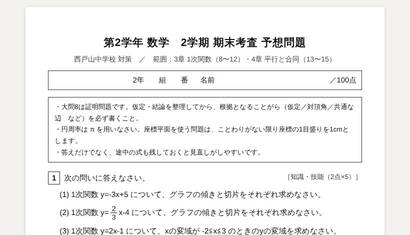
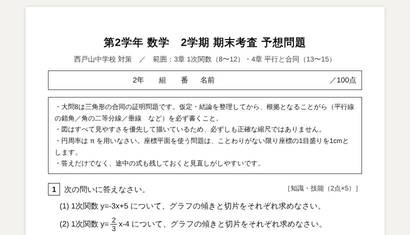
西戸山中2年 2学期期末 数学予想問題を差し替え（図の改善・大問8を合同証明2問に）
Claude-Session: https://claude.ai/code/session_0195v6oVe8CzGfCEmgC7YF48

Changed region(s): [[0.1171, 0.417, 0.9073, 1.0]]

diff --git a/g2-math-nishitoyama-kimatsu.html b/g2-math-nishitoyama-kimatsu.html
@@ -55,7 +55,8 @@
   <div class="namebox"><span>2年　　組　　番</span><span>名前　　　　　　　　　　　　　　</span><span>／100点</span></div>
 
   <div class="rules">
-    ・大問8は証明問題です。仮定・結論を整理してから、根拠となることがら（仮定／対頂角／共通な辺　など）を必ず書くこと。<br>
+    ・大問8は三角形の合同の証明問題です。仮定・結論を整理してから、根拠となることがら（平行線の錯角／角の二等分線／垂線　など）を必ず書くこと。<br>
+    ・図はすべて見やすさを優先して描いているため、必ずしも正確な縮尺ではありません。<br>
     ・円周率は π を用いなさい。座標平面を使う問題は、ことわりがない限り座標の1目盛りを1cmとします。<br>
     ・答えだけでなく、途中の式も残しておくと見直しがしやすいです。
   </div>
@@ -135,14 +136,22 @@
       <li>(1) 正九角形の1つの内角の大きさを求めなさい。</li>
       <li>(2) 正九角形の1つの外角の大きさを求めなさい。</li>
       <li>(3) 内角の和が1980°になる多角形は何角形か求めなさい。</li>
-      <li>(4) 右の図で、∠xの大きさを求めなさい。
+      <li>(4) 下の図の四角形ABCDで、∠xの大きさを求めなさい。
         <div class="figwrap">
-          <svg viewBox="0 0 260 180" width="220" height="152">
-            <polygon points="40,140 90,40 190,30 220,130" fill="none" stroke="#000" stroke-width="1.3"/>
-            <text x="18" y="150" font-size="11">x</text>
-            <text x="95" y="35" font-size="11">95°</text>
-            <text x="195" y="22" font-size="11">110°</text>
-            <text x="218" y="148" font-size="11">80°</text>
+          <svg viewBox="0 0 300 220" width="260" height="191">
+            <polygon points="70,180 55,60 180,25 255,130" fill="none" stroke="#000" stroke-width="1.4"/>
+            <circle cx="70" cy="180" r="2.8" fill="#000"/>
+            <circle cx="55" cy="60" r="2.8" fill="#000"/>
+            <circle cx="180" cy="25" r="2.8" fill="#000"/>
+            <circle cx="255" cy="130" r="2.8" fill="#000"/>
+            <text x="48" y="202" font-size="12" fill="#000" stroke="#fff" stroke-width="4" paint-order="stroke">A</text>
+            <text x="30" y="58" font-size="12" fill="#000" stroke="#fff" stroke-width="4" paint-order="stroke">B</text>
+            <text x="178" y="14" font-size="12" fill="#000" stroke="#fff" stroke-width="4" paint-order="stroke">C</text>
+            <text x="262" y="122" font-size="12" fill="#000" stroke="#fff" stroke-width="4" paint-order="stroke">D</text>
+            <text x="96" y="162" font-size="13" font-weight="bold" fill="#000" stroke="#fff" stroke-width="4" paint-order="stroke">x</text>
+            <text x="78" y="82" font-size="12" fill="#000" stroke="#fff" stroke-width="4" paint-order="stroke">95°</text>
+            <text x="168" y="58" font-size="12" fill="#000" stroke="#fff" stroke-width="4" paint-order="stroke">110°</text>
+            <text x="210" y="122" font-size="12" fill="#000" stroke="#fff" stroke-width="4" paint-order="stroke">80°</text>
           </svg>
         </div>
       </li>
@@ -155,63 +164,81 @@
     <ol class="items">
       <li>(1) 下の図で、ℓ//mのとき、∠xの大きさを求めなさい。
         <div class="figwrap">
-          <svg viewBox="0 0 260 220" width="220" height="186">
-            <line x1="10" y1="40" x2="250" y2="40" stroke="#000"/><text x="2" y="35" font-size="10">ℓ</text>
-            <line x1="10" y1="180" x2="250" y2="180" stroke="#000"/><text x="2" y="195" font-size="10">m</text>
-            <line x1="90" y1="40" x2="150" y2="110" stroke="#000"/>
-            <line x1="150" y1="110" x2="110" y2="180" stroke="#000"/>
-            <text x="95" y="56" font-size="10">38°</text>
-            <text x="158" y="107" font-size="11">x</text>
-            <text x="112" y="172" font-size="10">52°</text>
+          <svg viewBox="0 0 280 260" width="240" height="223">
+            <line x1="10" y1="30" x2="270" y2="30" stroke="#000" stroke-width="1.3"/><text x="2" y="25" font-size="12" fill="#000" stroke="#fff" stroke-width="4" paint-order="stroke">ℓ</text>
+            <line x1="10" y1="230" x2="270" y2="230" stroke="#000" stroke-width="1.3"/><text x="2" y="248" font-size="12" fill="#000" stroke="#fff" stroke-width="4" paint-order="stroke">m</text>
+            <line x1="90" y1="30" x2="190" y2="130" stroke="#000" stroke-width="1.3"/>
+            <line x1="190" y1="130" x2="130" y2="230" stroke="#000" stroke-width="1.3"/>
+            <circle cx="90" cy="30" r="2.8" fill="#000"/>
+            <circle cx="190" cy="130" r="2.8" fill="#000"/>
+            <circle cx="130" cy="230" r="2.8" fill="#000"/>
+            <text x="100" y="58" font-size="13" fill="#000" stroke="#fff" stroke-width="4" paint-order="stroke">38°</text>
+            <text x="198" y="128" font-size="14" font-weight="bold" fill="#000" stroke="#fff" stroke-width="4" paint-order="stroke">x</text>
+            <text x="138" y="208" font-size="13" fill="#000" stroke="#fff" stroke-width="4" paint-order="stroke">52°</text>
           </svg>
         </div>
       </li>
       <li>(2) 下の図で、ℓ//mのとき、∠xの大きさを求めなさい。
         <div class="figwrap">
-          <svg viewBox="0 0 260 220" width="220" height="186">
-            <line x1="10" y1="40" x2="250" y2="40" stroke="#000"/><text x="2" y="35" font-size="10">ℓ</text>
-            <line x1="10" y1="180" x2="250" y2="180" stroke="#000"/><text x="2" y="195" font-size="10">m</text>
-            <line x1="170" y1="40" x2="110" y2="110" stroke="#000"/>
-            <line x1="110" y1="110" x2="150" y2="180" stroke="#000"/>
-            <text x="138" y="56" font-size="10">48°</text>
-            <text x="78" y="107" font-size="11">x</text>
-            <text x="155" y="172" font-size="10">37°</text>
+          <svg viewBox="0 0 280 260" width="240" height="223">
+            <line x1="10" y1="30" x2="270" y2="30" stroke="#000" stroke-width="1.3"/><text x="2" y="25" font-size="12" fill="#000" stroke="#fff" stroke-width="4" paint-order="stroke">ℓ</text>
+            <line x1="10" y1="230" x2="270" y2="230" stroke="#000" stroke-width="1.3"/><text x="2" y="248" font-size="12" fill="#000" stroke="#fff" stroke-width="4" paint-order="stroke">m</text>
+            <line x1="190" y1="30" x2="100" y2="130" stroke="#000" stroke-width="1.3"/>
+            <line x1="100" y1="130" x2="160" y2="230" stroke="#000" stroke-width="1.3"/>
+            <circle cx="190" cy="30" r="2.8" fill="#000"/>
+            <circle cx="100" cy="130" r="2.8" fill="#000"/>
+            <circle cx="160" cy="230" r="2.8" fill="#000"/>
+            <text x="150" y="58" font-size="13" fill="#000" stroke="#fff" stroke-width="4" paint-order="stroke">48°</text>
+            <text x="58" y="128" font-size="14" font-weight="bold" fill="#000" stroke="#fff" stroke-width="4" paint-order="stroke">x</text>
+            <text x="166" y="208" font-size="13" fill="#000" stroke="#fff" stroke-width="4" paint-order="stroke">37°</text>
           </svg>
         </div>
       </li>
       <li>(3) 下の図で、ℓ//mのとき、∠xの大きさを求めなさい。
         <div class="figwrap">
-          <svg viewBox="0 0 260 220" width="220" height="186">
-            <line x1="10" y1="40" x2="250" y2="40" stroke="#000"/><text x="2" y="35" font-size="10">ℓ</text>
-            <line x1="10" y1="180" x2="250" y2="180" stroke="#000"/><text x="2" y="195" font-size="10">m</text>
-            <line x1="60" y1="40" x2="140" y2="110" stroke="#000"/>
-            <line x1="140" y1="110" x2="190" y2="180" stroke="#000"/>
-            <text x="63" y="56" font-size="10">65°</text>
-            <text x="148" y="107" font-size="11">x</text>
-            <text x="190" y="172" font-size="10">20°</text>
+          <svg viewBox="0 0 280 260" width="240" height="223">
+            <line x1="10" y1="30" x2="270" y2="30" stroke="#000" stroke-width="1.3"/><text x="2" y="25" font-size="12" fill="#000" stroke="#fff" stroke-width="4" paint-order="stroke">ℓ</text>
+            <line x1="10" y1="230" x2="270" y2="230" stroke="#000" stroke-width="1.3"/><text x="2" y="248" font-size="12" fill="#000" stroke="#fff" stroke-width="4" paint-order="stroke">m</text>
+            <line x1="70" y1="30" x2="170" y2="130" stroke="#000" stroke-width="1.3"/>
+            <line x1="170" y1="130" x2="220" y2="230" stroke="#000" stroke-width="1.3"/>
+            <circle cx="70" cy="30" r="2.8" fill="#000"/>
+            <circle cx="170" cy="130" r="2.8" fill="#000"/>
+            <circle cx="220" cy="230" r="2.8" fill="#000"/>
+            <text x="80" y="58" font-size="13" fill="#000" stroke="#fff" stroke-width="4" paint-order="stroke">65°</text>
+            <text x="178" y="128" font-size="14" font-weight="bold" fill="#000" stroke="#fff" stroke-width="4" paint-order="stroke">x</text>
+            <text x="222" y="208" font-size="13" fill="#000" stroke="#fff" stroke-width="4" paint-order="stroke">20°</text>
           </svg>
         </div>
       </li>
       <li>(4) 下の図で、∠xの大きさを求めなさい。
         <div class="figwrap">
-          <svg viewBox="0 0 260 200" width="220" height="169">
-            <polygon points="130,20 40,150 130,110 220,150" fill="none" stroke="#000" stroke-width="1.3"/>
-            <text x="123" y="36" font-size="10">65°</text>
-            <text x="38" y="145" font-size="10">35°</text>
-            <text x="196" y="145" font-size="10">25°</text>
-            <text x="120" y="105" font-size="11">x</text>
+          <svg viewBox="0 0 280 220" width="240" height="189">
+            <polygon points="150,25 45,170 150,125 255,170" fill="none" stroke="#000" stroke-width="1.4"/>
+            <circle cx="150" cy="25" r="2.8" fill="#000"/>
+            <circle cx="45" cy="170" r="2.8" fill="#000"/>
+            <circle cx="150" cy="125" r="2.8" fill="#000"/>
+            <circle cx="255" cy="170" r="2.8" fill="#000"/>
+            <text x="156" y="42" font-size="13" fill="#000" stroke="#fff" stroke-width="4" paint-order="stroke">65°</text>
+            <text x="35" y="190" font-size="13" fill="#000" stroke="#fff" stroke-width="4" paint-order="stroke">35°</text>
+            <text x="222" y="190" font-size="13" fill="#000" stroke="#fff" stroke-width="4" paint-order="stroke">25°</text>
+            <text x="156" y="120" font-size="14" font-weight="bold" fill="#000" stroke="#fff" stroke-width="4" paint-order="stroke">x</text>
           </svg>
         </div>
       </li>
       <li>(5) 下の図は星形の図形である。印のついた5つの角の大きさの和を求めなさい。
         <div class="figwrap">
-          <svg viewBox="0 0 260 200" width="220" height="169">
-            <polygon points="130,15 74,187 220,81 40,81 186,187" fill="none" stroke="#000" stroke-width="1.3"/>
-            <circle cx="130" cy="15" r="2.5" fill="#000"/>
-            <circle cx="74" cy="187" r="2.5" fill="#000"/>
-            <circle cx="220" cy="81" r="2.5" fill="#000"/>
-            <circle cx="40" cy="81" r="2.5" fill="#000"/>
-            <circle cx="186" cy="187" r="2.5" fill="#000"/>
+          <svg viewBox="0 0 280 220" width="240" height="189">
+            <polygon points="140,15 80,200 236,89 44,89 200,200" fill="none" stroke="#000" stroke-width="1.4"/>
+            <circle cx="140" cy="15" r="3" fill="#000"/>
+            <circle cx="80" cy="200" r="3" fill="#000"/>
+            <circle cx="236" cy="89" r="3" fill="#000"/>
+            <circle cx="44" cy="89" r="3" fill="#000"/>
+            <circle cx="200" cy="200" r="3" fill="#000"/>
+            <text x="144" y="10" font-size="12" fill="#000" stroke="#fff" stroke-width="4" paint-order="stroke">A</text>
+            <text x="70" y="216" font-size="12" fill="#000" stroke="#fff" stroke-width="4" paint-order="stroke">B</text>
+            <text x="240" y="84" font-size="12" fill="#000" stroke="#fff" stroke-width="4" paint-order="stroke">C</text>
+            <text x="18" y="84" font-size="12" fill="#000" stroke="#fff" stroke-width="4" paint-order="stroke">D</text>
+            <text x="204" y="216" font-size="12" fill="#000" stroke="#fff" stroke-width="4" paint-order="stroke">E</text>
           </svg>
         </div>
       </li>
@@ -252,30 +279,54 @@
 
   <!-- 8 -->
   <div class="q pb">
-    <div class="qh"><span class="num">8</span><span class="inst">次の問いに証明しなさい。仮定・結論を明らかにしてから書くこと。<span class="pts">［思・判・表（8点＋9点）］</span></span></div>
+    <div class="qh"><span class="num">8</span><span class="inst">次の2つの三角形の合同を証明しなさい。仮定・結論を明らかにしてから書くこと。<span class="pts">［思・判・表（8点＋9点）］</span></span></div>
     <ol class="items">
-      <li>(1) 下の図のように、点Oは線分ACとBDの交点である。AO=CO、BO=DOならば、AB=CDであることを証明しなさい。
+      <li>(1) 下の図のように、四角形ABCDで、AB∥DC、AB=DCである。対角線ACとBDの交点をEとするとき、△ABE≡△CDEであることを証明しなさい。
         <div class="figwrap">
-          <svg viewBox="0 0 260 200" width="220" height="169">
-            <line x1="50" y1="40" x2="210" y2="160" stroke="#000"/>
-            <line x1="40" y1="160" x2="220" y2="40" stroke="#000"/>
-            <text x="34" y="36" font-size="11">A</text>
-            <text x="216" y="176" font-size="11">C</text>
-            <text x="18" y="176" font-size="11">B</text>
-            <text x="224" y="36" font-size="11">D</text>
-            <text x="135" y="105" font-size="11">O</text>
+          <svg viewBox="0 0 280 220" width="240" height="188">
+            <line x1="50" y1="35" x2="230" y2="35" stroke="#000" stroke-width="1.3"/>
+            <line x1="230" y1="35" x2="190" y2="175" stroke="#000" stroke-width="1.3"/>
+            <line x1="190" y1="175" x2="90" y2="175" stroke="#000" stroke-width="1.3"/>
+            <line x1="90" y1="175" x2="50" y2="35" stroke="#000" stroke-width="1.3"/>
+            <line x1="50" y1="35" x2="190" y2="175" stroke="#000" stroke-width="1.1"/>
+            <line x1="230" y1="35" x2="90" y2="175" stroke="#000" stroke-width="1.1"/>
+            <circle cx="50" cy="35" r="2.8" fill="#000"/>
+            <circle cx="230" cy="35" r="2.8" fill="#000"/>
+            <circle cx="190" cy="175" r="2.8" fill="#000"/>
+            <circle cx="90" cy="175" r="2.8" fill="#000"/>
+            <circle cx="140" cy="125" r="2.8" fill="#000"/>
+            <text x="34" y="26" font-size="12" fill="#000" stroke="#fff" stroke-width="4" paint-order="stroke">A</text>
+            <text x="234" y="26" font-size="12" fill="#000" stroke="#fff" stroke-width="4" paint-order="stroke">B</text>
+            <text x="194" y="193" font-size="12" fill="#000" stroke="#fff" stroke-width="4" paint-order="stroke">C</text>
+            <text x="66" y="193" font-size="12" fill="#000" stroke="#fff" stroke-width="4" paint-order="stroke">D</text>
+            <text x="148" y="118" font-size="12" fill="#000" stroke="#fff" stroke-width="4" paint-order="stroke">E</text>
+            <text x="128" y="28" font-size="12" fill="#000" stroke="#fff" stroke-width="4" paint-order="stroke">▷</text>
+            <text x="128" y="190" font-size="12" fill="#000" stroke="#fff" stroke-width="4" paint-order="stroke">▷</text>
           </svg>
         </div>
       </li>
-      <li>(2) 下の図のように、四角形ABCDにおいて、AB=AD、CB=CDならば、∠ABC=∠ADCであることを証明しなさい。
+      <li>(2) 下の図のように、∠AOBの二等分線上に点Pがあり、点Pから半直線OA、半直線OBにそれぞれ垂線PC、PDを下ろした。このとき、△OCP≡△ODPであることを証明しなさい。
         <div class="figwrap">
-          <svg viewBox="0 0 220 220" width="190" height="190">
-            <polygon points="110,20 190,110 110,200 30,110" fill="none" stroke="#000" stroke-width="1.3"/>
-            <line x1="110" y1="20" x2="110" y2="200" stroke="#000" stroke-dasharray="4,3"/>
-            <text x="100" y="14" font-size="11">A</text>
-            <text x="196" y="115" font-size="11">B</text>
-            <text x="100" y="217" font-size="11">C</text>
-            <text x="8" y="115" font-size="11">D</text>
+          <svg viewBox="0 0 300 220" width="260" height="191">
+            <line x1="50" y1="190" x2="270" y2="190" stroke="#000" stroke-width="1.3"/>
+            <line x1="50" y1="190" x2="125" y2="60" stroke="#000" stroke-width="1.3"/>
+            <line x1="50" y1="190" x2="171" y2="120" stroke="#000" stroke-width="1.2" stroke-dasharray="4,3"/>
+            <line x1="171" y1="120" x2="171" y2="190" stroke="#000" stroke-width="1.1"/>
+            <line x1="171" y1="120" x2="111" y2="85" stroke="#000" stroke-width="1.1"/>
+            <polyline points="163,190 163,182 171,182" fill="none" stroke="#000" stroke-width="1"/>
+            <polyline points="107,91.9 113.9,95.9 117.9,89" fill="none" stroke="#000" stroke-width="1"/>
+            <line x1="81.5" y1="190" x2="68.15" y2="179.5" stroke="#000" stroke-width="1.1"/>
+            <line x1="68.15" y1="179.5" x2="61.25" y2="170.5" stroke="#000" stroke-width="1.1"/>
+            <circle cx="50" cy="190" r="2.8" fill="#000"/>
+            <circle cx="171" cy="120" r="2.8" fill="#000"/>
+            <circle cx="171" cy="190" r="2.8" fill="#000"/>
+            <circle cx="111" cy="85" r="2.8" fill="#000"/>
+            <text x="34" y="203" font-size="12" fill="#000" stroke="#fff" stroke-width="4" paint-order="stroke">O</text>
+            <text x="272" y="196" font-size="12" fill="#000" stroke="#fff" stroke-width="4" paint-order="stroke">A</text>
+            <text x="115" y="52" font-size="12" fill="#000" stroke="#fff" stroke-width="4" paint-order="stroke">B</text>
+            <text x="176" y="110" font-size="12" fill="#000" stroke="#fff" stroke-width="4" paint-order="stroke">P</text>
+            <text x="176" y="200" font-size="12" fill="#000" stroke="#fff" stroke-width="4" paint-order="stroke">C</text>
+            <text x="88" y="80" font-size="12" fill="#000" stroke="#fff" stroke-width="4" paint-order="stroke">D</text>
           </svg>
         </div>
       </li>
@@ -293,7 +344,7 @@
     <b>■ 出題範囲メモ（作問時の判断）</b>
     ・範囲は第3章「8 1次関数とグラフ」〜「12 直線と図形」と、第4章「13 多角形の角，平行線と角」〜「15 合同な図形」。<br>
     ・1次関数は基礎（傾き・切片・変域・式を求める）を大問1に少しだけ入れ、中心は大問2〜4の「利用」（ダイヤグラム・2直線の交点・直線と図形）にしました。<br>
-    ・平行と合同は角度計算（多角形の角・平行線と角・三角形の内角外角の利用）を厚めに、証明は2問（合同条件のみで完結する基本パターン）にしています。
+    ・平行と合同は角度計算（多角形の角・平行線と角・三角形の内角外角の利用）を厚めに、証明は三角形の合同の証明2問（平行線の錯角を使うASA型、角の二等分線＋垂線を使う直角三角形の合同型）にしています。
   </div>
 
   <h2>1（2点×5）</h2>
@@ -360,34 +411,33 @@
   <h2>8（8点＋9点）</h2>
   <div class="a">
     (1)［証明］<br>
-    仮定：AO=CO、BO=DO　　結論：AB=CD<br>
-    △AOBと△CODにおいて、<br>
-    仮定から、　AO=CO　…①<br>
-    仮定から、　BO=DO　…②<br>
-    対頂角は等しいから、　∠AOB=∠COD　…③<br>
-    ①、②、③より、2組の辺とその間の角がそれぞれ等しいから、<br>
-    <span class="k">△AOB≡△COD</span><br>
-    合同な図形の対応する辺は等しいから、<span class="k">AB=CD</span>
+    仮定：AB∥DC、AB=DC　　結論：△ABE≡△CDE<br>
+    △ABEと△CDEにおいて、<br>
+    仮定から、　AB=DC　…①<br>
+    AB∥DCより、平行線の錯角は等しいから、　∠ABE=∠CDE　…②<br>
+    AB∥DCより、平行線の錯角は等しいから、　∠BAE=∠DCE　…③<br>
+    ①、②、③より、1組の辺とその両端の角がそれぞれ等しいから、<br>
+    <span class="k">△ABE≡△CDE</span>
   </div>
   <div class="a">
     (2)［証明］<br>
-    仮定：AB=AD、CB=CD　　結論：∠ABC=∠ADC<br>
-    △ABCと△ADCにおいて、<br>
-    仮定から、　AB=AD　…①<br>
-    仮定から、　CB=CD　…②<br>
-    共通な辺だから、　AC=AC　…③<br>
-    ①、②、③より、3組の辺がそれぞれ等しいから、<br>
-    <span class="k">△ABC≡△ADC</span><br>
-    合同な図形の対応する角は等しいから、<span class="k">∠ABC=∠ADC</span>
+    仮定：OPは∠AOBの二等分線、PC⊥OA、PD⊥OB　　結論：△OCP≡△ODP<br>
+    △OCPと△ODPにおいて、<br>
+    共通な辺だから、　OP=OP　…①<br>
+    仮定（OPが∠AOBの二等分線）から、　∠COP=∠DOP　…②<br>
+    仮定（垂線）から、　∠OCP=∠ODP=90°　…③<br>
+    ③より、△OCP、△ODPはどちらも直角三角形であり、①、②から、直角三角形の斜辺と1つの鋭角がそれぞれ等しいから、<br>
+    <span class="k">△OCP≡△ODP</span>
   </div>
-  <div class="ex">採点の目安：仮定・結論の整理（2点）、根拠（対頂角／共通な辺）の指摘（2〜3点）、合同条件を正しく選べているか（2〜3点）、結論まで書けているか（2点）。合同条件の名称を書き忘れている答案はその分だけ減点してください。</div>
+  <div class="ex">(2) ②・③から∠OPC=∠OPDも導けるので、「1組の辺とその両端の角がそれぞれ等しい」として説明してもよい（どちらでも正解）。<br>
+  採点の目安：仮定・結論の整理（2点）、根拠（平行線の錯角／二等分線・垂線）の指摘（2〜3点）、合同条件を正しく選べているか（2〜3点）、結論まで書けているか（2点）。合同条件の名称を書き忘れている答案はその分だけ減点してください。</div>
 
   <h2>この予想問題のねらい（生徒への指示）</h2>
   <div class="ex">
     ① 大問1・3・4で1次関数の基礎〜応用（変域、直線の式、2直線の交点、面積、回転体）を一通り復習できるようにしています。大問4②の面積は「y軸上の線分を底辺とみる」解き方（ポイント2の型）を必ず定着させてください。<br>
     ② 大問2のようなダイヤグラム問題は、2つの式を連立方程式として解く練習を必ずセットでやらせてください（グラフだけで読み取ろうとすると時間がかかります）。<br>
     ③ 大問6(4)(5)のような「矢じり形」「星形」の角は、三角形の外角の性質（外角＝離れた2つの内角の和）を繰り返し使うだけで解けることを、実際に自分で補助線を引かせて確認させてください。<br>
-    ④ 証明は大問8の2問（対頂角を使うSAS型、共通な辺を使うSSS型）が基本の2パターンです。まずはこの2つを自力で再現できるまで書く練習をさせ、慣れてきたら大問7(4)のような図から三角形を見つける練習につなげてください。
+    ④ 証明は大問8の2問（平行線の錯角を使うASA型、角の二等分線＋垂線を使う直角三角形の合同型）が基本の2パターンです。まずはこの2つを自力で再現できるまで書く練習をさせ、慣れてきたら大問7(4)のような図から三角形を見つける練習につなげてください。
   </div>
 </div>
 
